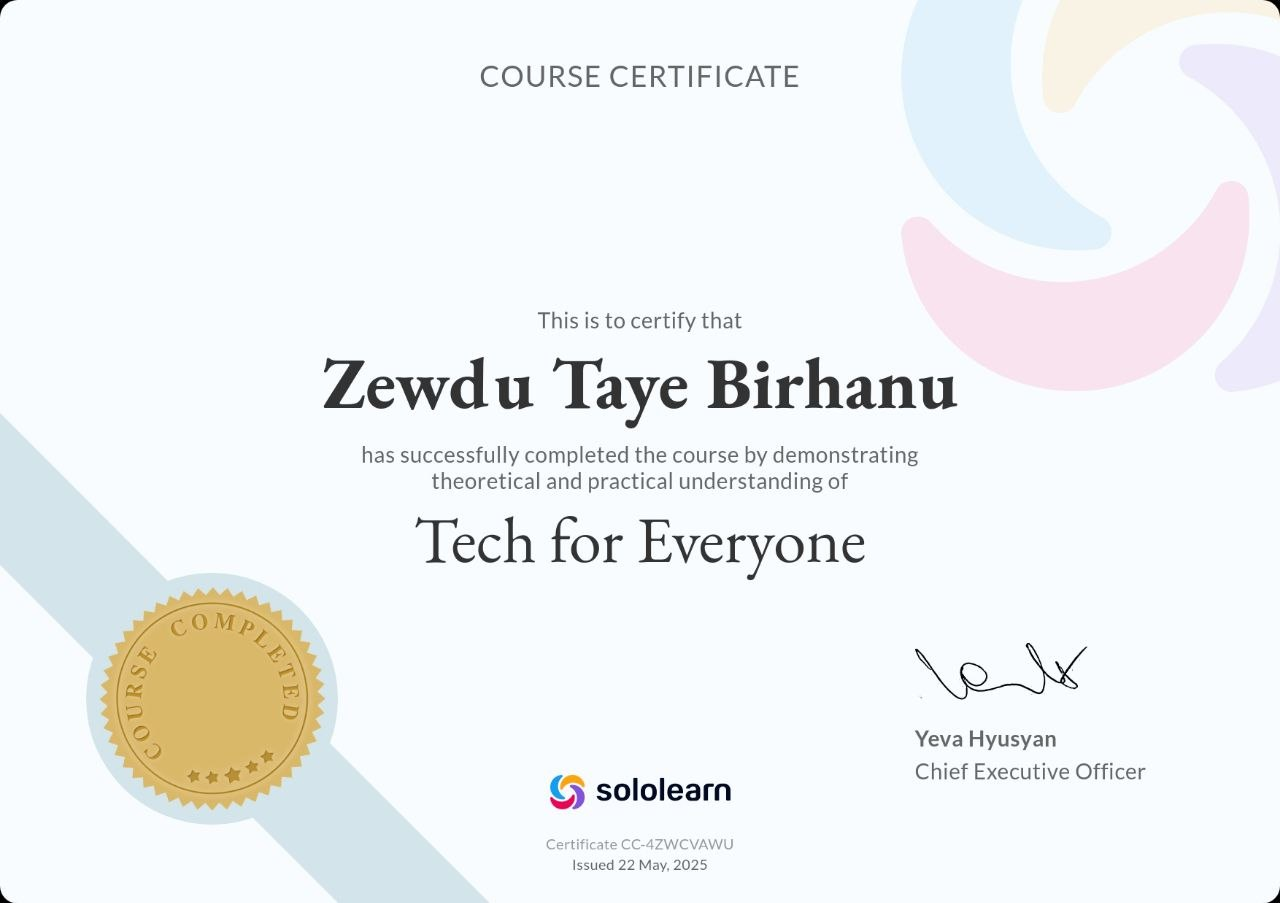
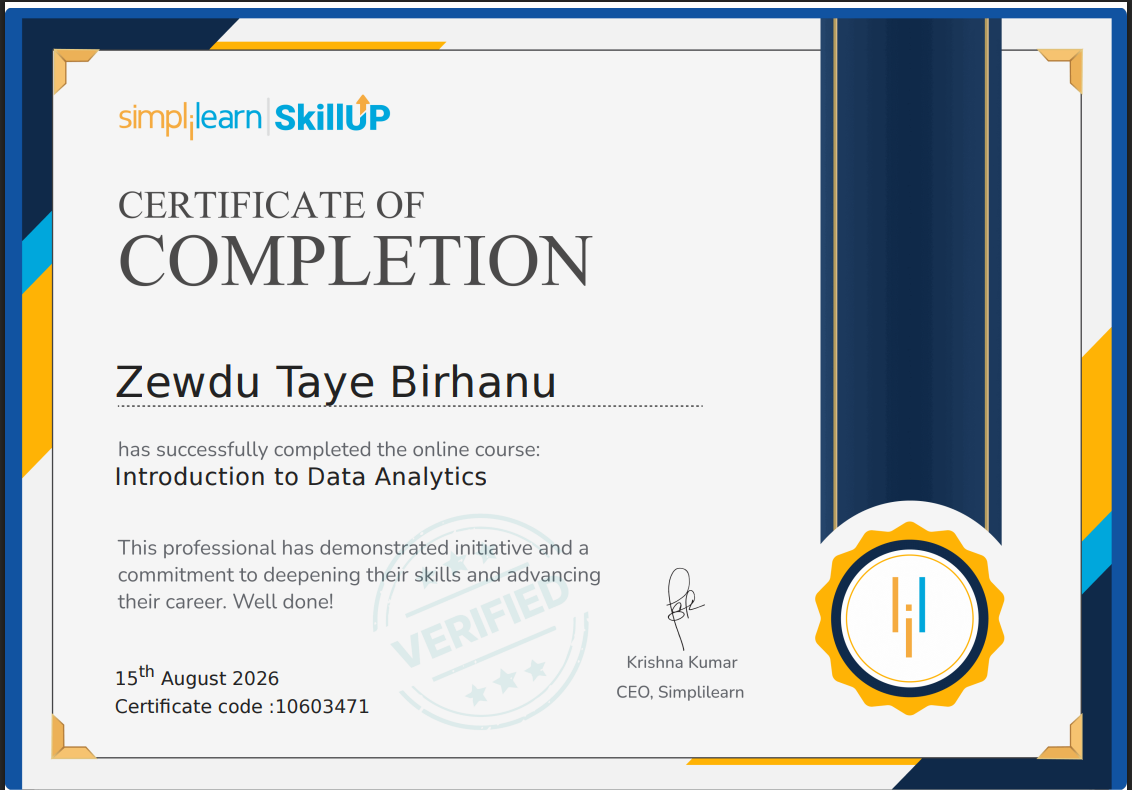
Addding pic

diff --git a/app/page.tsx b/app/page.tsx
@@ -57,7 +57,7 @@ const ALL_CERTIFICATES = [
     organization: "Ministry of Education",
     isFeatured: true,
   },
-  ...Array.from({ length: 22 }, (_, i) => ({
+  ...Array.from({ length: 23 }, (_, i) => ({
     id: `c${i + 1}`,
     title: `Certificate ${i + 1}`,
     image: `/certificates/c${i + 1}.jpg`,
